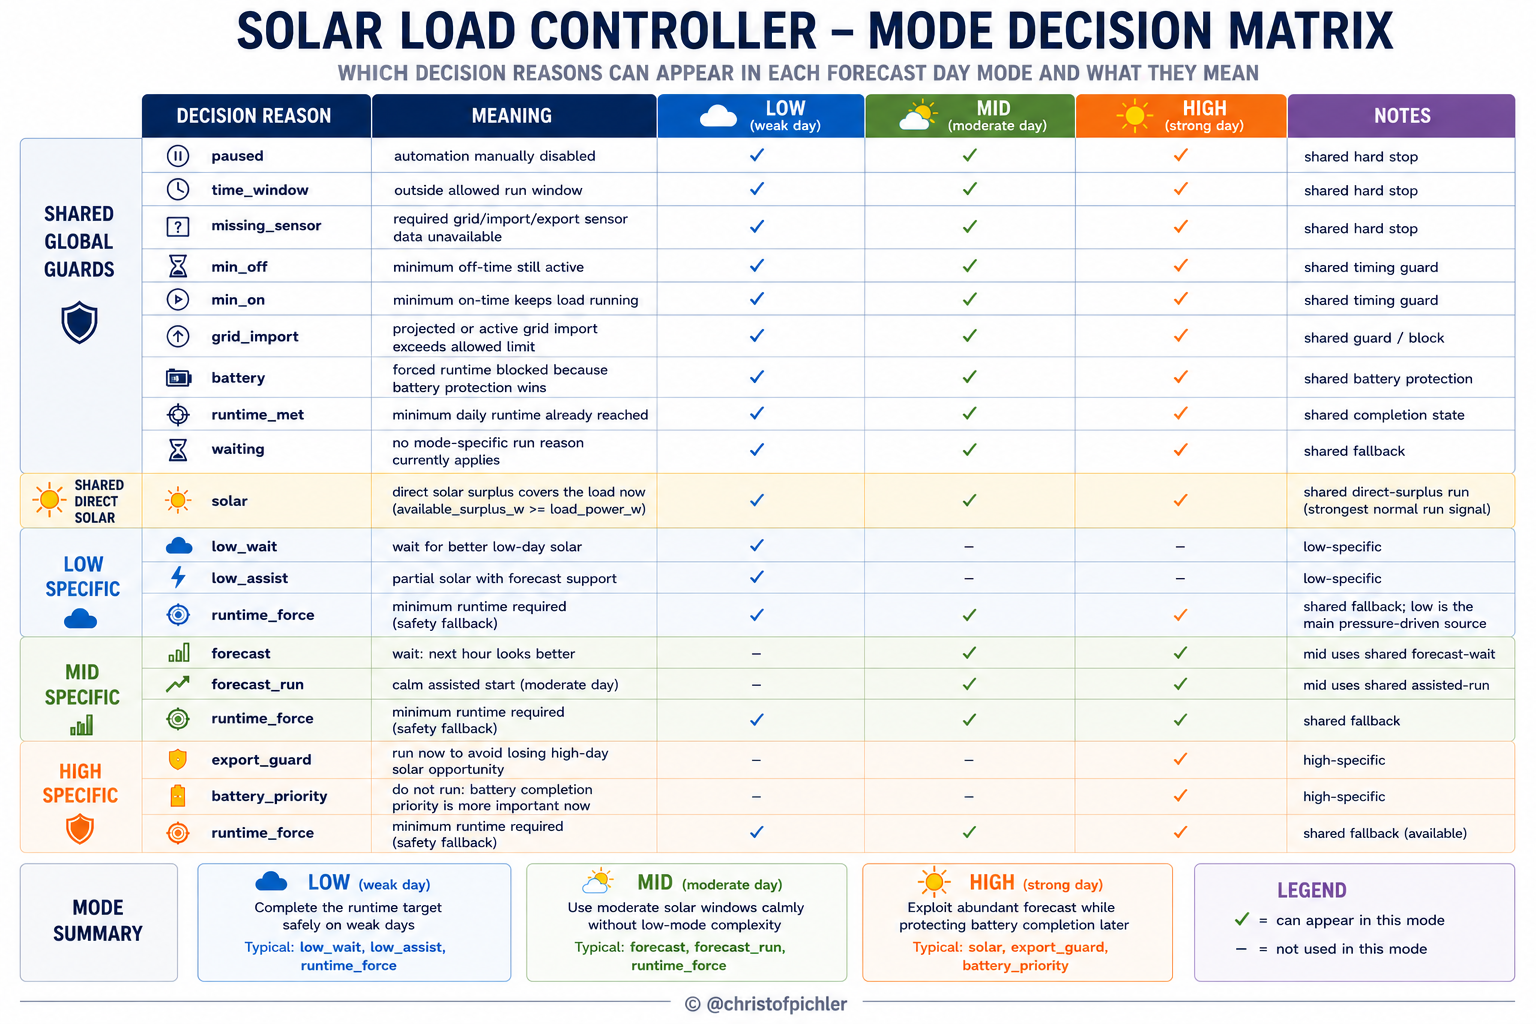
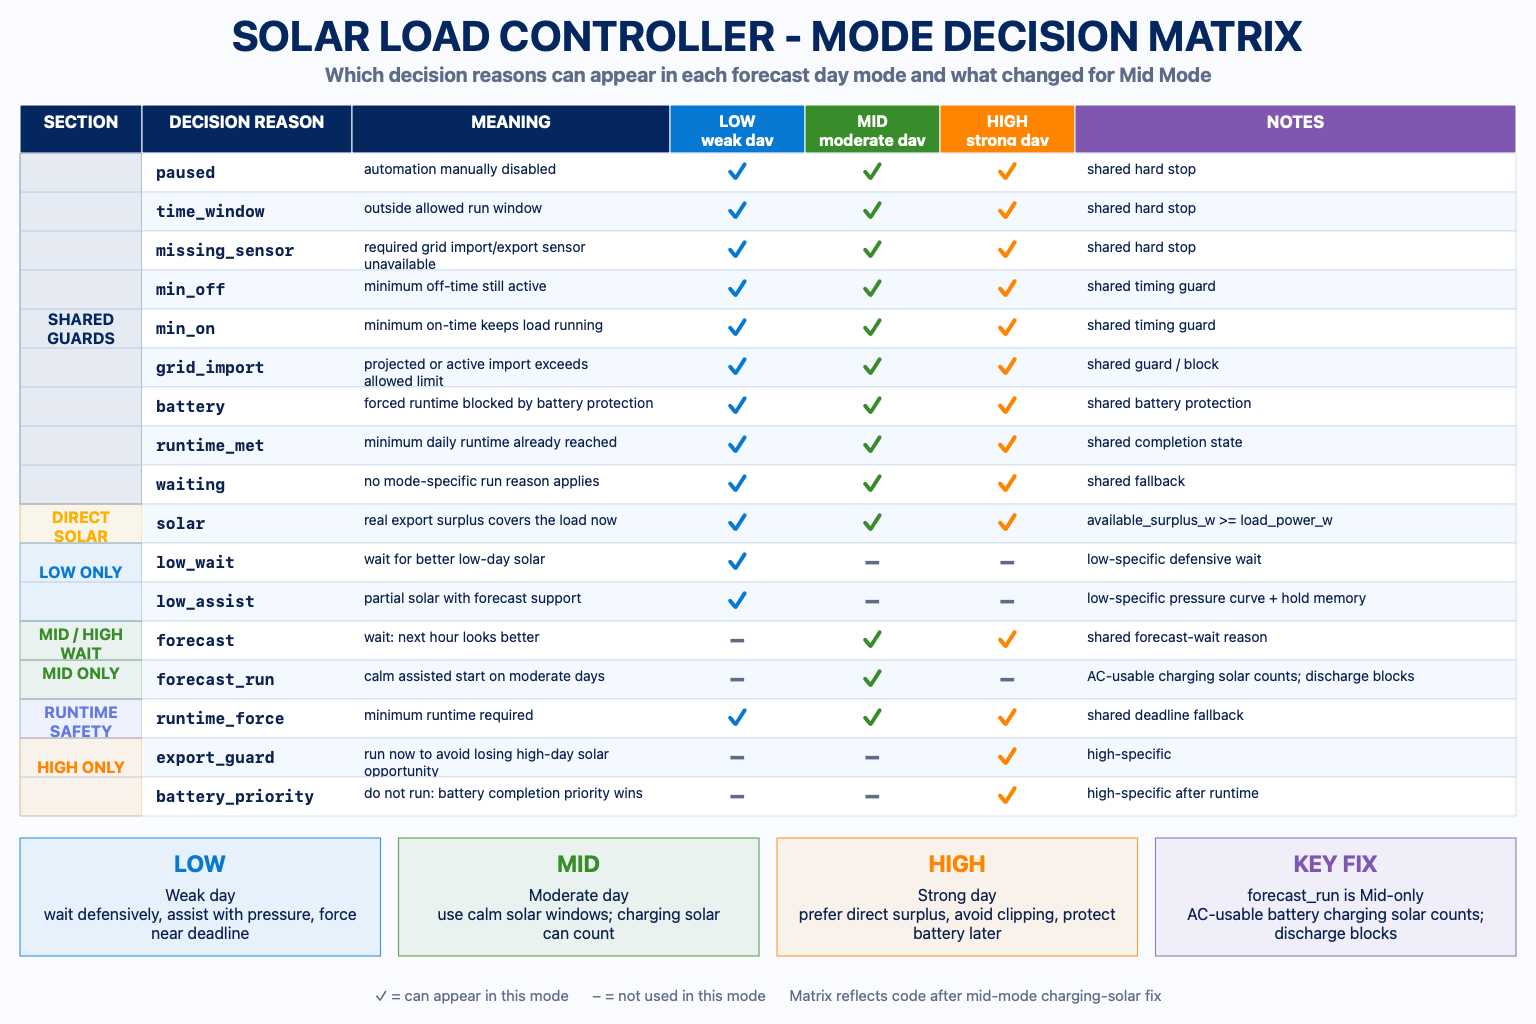
Update mode decision matrix docs

diff --git a/custom_components/solar_load_controller/decision_engine.py b/custom_components/solar_load_controller/decision_engine.py
@@ -195,11 +195,9 @@ def evaluate_decision(inputs: DecisionInputs) -> DecisionResult:
         if inputs.forecast_day_class == "low":
             reason = DECISION_LOW_FORECAST_ASSISTED_RUN
         else:
-            # DECISION_FORECAST_ASSISTED_RUN ("forecast_run") is reserved for
-            # mid-mode, which is not yet implemented. The coordinator currently
-            # only sets forecast_assisted_run_available=True for low-day class,
-            # so this branch is unreachable in production. It will become active
-            # once mid_mode.py is introduced.
+            # forecast_run is currently the mid-mode assisted-run reason. The
+            # coordinator is responsible for only setting this flag for modes
+            # that intentionally use the shared forecast-assisted decision.
             reason = DECISION_FORECAST_ASSISTED_RUN
     elif inputs.must_force_minimum_runtime:
         if (
@@ -363,7 +361,7 @@ def _build_summary(inputs: DecisionInputs, should_run: bool, reason: str) -> str
     if reason == DECISION_SOLAR_SURPLUS_AVAILABLE:
         return "solar: surplus covers load"
     if reason == DECISION_FORECAST_ASSISTED_RUN:
-        return "forecast_run: high forecast with partial surplus"
+        return "forecast_run: mid forecast with AC-usable solar support"
     if reason == DECISION_LOW_FORECAST_ASSISTED_RUN:
         return "low_assist: partial solar with forecast support"
     if reason == DECISION_FORECAST_WAIT:

diff --git a/docs/decision-model.md b/docs/decision-model.md
@@ -358,8 +358,9 @@ Mid mode is intentionally calm and flat:
   cancels immediately; this prevents rapid cycling on installations with noisy
   solar measurements (e.g. microinverters that report 0 W briefly)
 - no force cascade — it never escalates to `runtime_force` on its own
-- no battery mixing — it only uses effective solar surplus, never active battery
-  discharge
+- no battery discharge — mid mode may count AC-usable solar that is currently
+  routed into battery charging, but it blocks assisted starts while the battery
+  is actively discharging
 
 `runtime_force` is still available via the shared coordinator path, but mid mode
 itself does not activate it. If minimum runtime is not met by end of day and low
@@ -378,9 +379,13 @@ Mid mode has two main phases:
      mode which waits defensively when next-hour data is missing)
 
 2. **Allow a controlled assisted start when current solar is strong enough**
-   - if effective solar surplus meets a fixed threshold (55% of load power by
-     default) and the projected grid situation is clean, it emits `forecast_run`
+   - if AC-usable effective solar surplus meets a fixed threshold (55% of load
+     power by default) and the projected grid situation is clean, it emits
+     `forecast_run`
      (`DECISION_FORECAST_ASSISTED_RUN`)
+   - charging solar can count here; this lets mid mode use moderate solar
+     windows instead of letting the battery absorb the whole window first
+   - active battery discharge still blocks assisted starts
    - the threshold is not time-scaled — it is the same at 09:00 as at 15:00
 
 When neither condition applies and there is no real solar surplus, the decision
@@ -392,9 +397,12 @@ force path activates it).
 In [mid_mode.py](/Users/A200029998/Documents/pool-automation/custom_components/solar_load_controller/mid_mode.py):
 
 - `should_allow_mid_mode_assisted_run(...)`
-  - returns `True` when effective solar surplus meets the fixed ratio threshold,
-    the projected grid import is below the limit, and the battery is not actively
-    discharging
+  - returns `True` when AC-usable effective solar surplus meets the fixed ratio
+    threshold, the projected grid import is below the limit, and the battery is
+    not actively discharging
+  - charging battery power may contribute through `effective_solar_surplus_w`
+    when it is still usable on the AC side; clipped PV above the configured
+    inverter limit is excluded by the shared surplus calculation
   - blocking conditions: `projected_grid_import_exceeds_limit`, battery
     `discharging`, or `load_power_w <= 0`
 
@@ -416,8 +424,8 @@ These are defined in
 [mid_mode.py](/Users/A200029998/Documents/pool-automation/custom_components/solar_load_controller/mid_mode.py).
 
 - `MID_FORECAST_ASSISTED_SURPLUS_RATIO = 0.55`
-  - the effective solar surplus must be at least 55% of load power for an
-    assisted start; this is a flat ratio with no time-of-day scaling
+  - the AC-usable effective solar surplus must be at least 55% of load power
+    for an assisted start; this is a flat ratio with no time-of-day scaling
 
 - `MID_FORECAST_WAIT_NEXT_HOUR_RATIO = 0.75`
   - the next-hour forecast threshold is computed as 75% of load power converted

diff --git a/README.md b/README.md
@@ -157,7 +157,9 @@ household reserve, and the late-day battery-priority buffer.
 Mid mode is the calm middle band between low and high. It can wait for a
 clearly better next-hour window, allow a simple assisted start via
 `forecast_run`, and otherwise falls through to the shared completion logic
-without low-mode pressure or hold hysteresis.
+without low-mode pressure or hold hysteresis. The assisted start uses
+AC-usable current solar support, including solar currently routed into battery
+charging, but never active battery discharge.
 
 ### Low Mode
 
